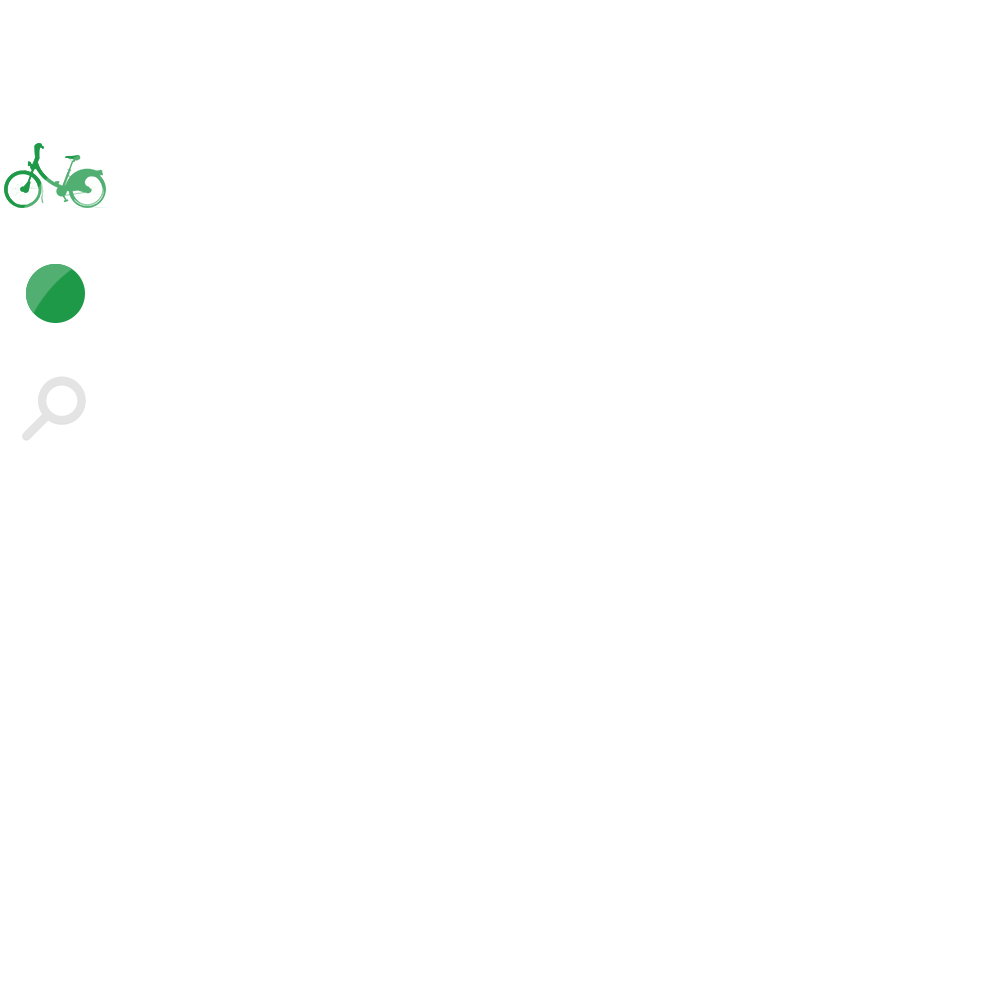
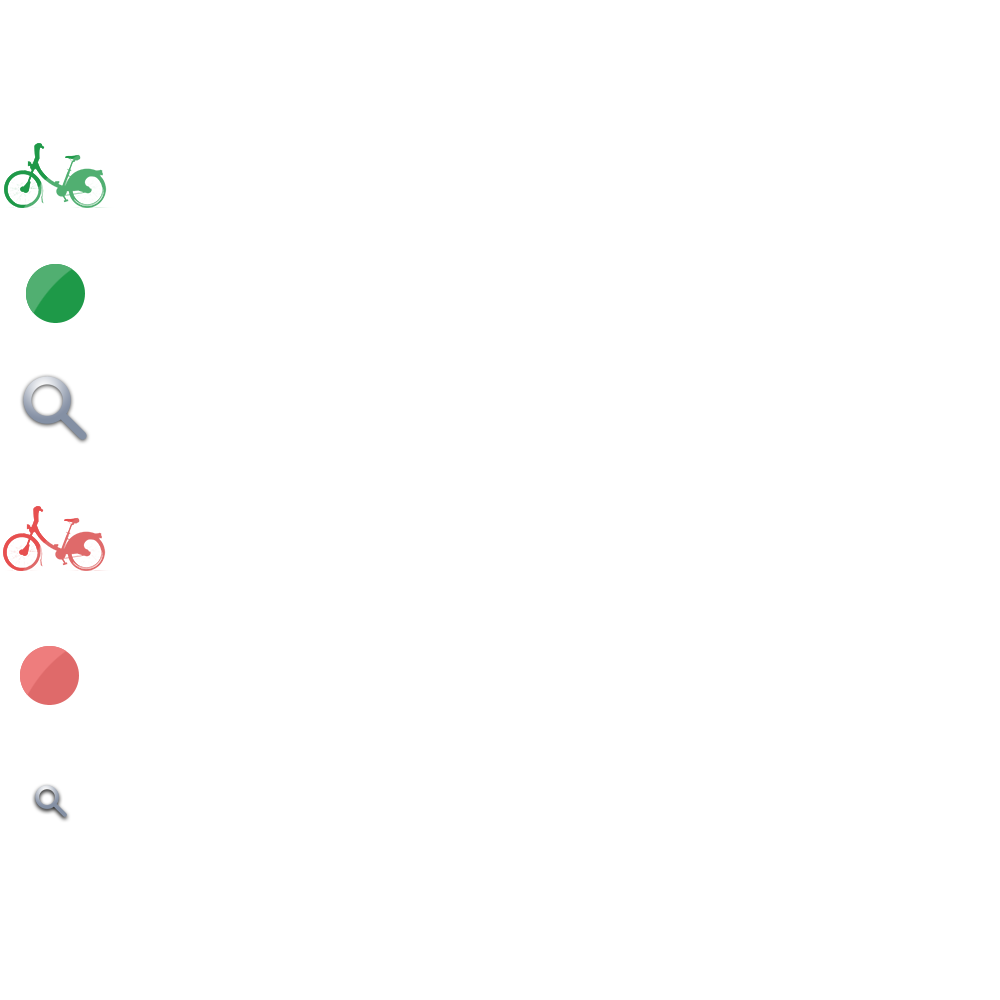
Design of the search section - perfecting the list view

diff --git a/dev/css/i.css b/dev/css/i.css
@@ -13,6 +13,7 @@ body {
 	-webkit-user-select:none;
     -webkit-text-size-adjust:none;
 	font-family:"Helvetica Neue";
+	-webkit-box-sizing: border-box;
 }
 
 .clr {
@@ -30,7 +31,9 @@ body {
 	height:50px;
 	line-height:50px;
 	background-color:#d51875;
-	background-image:-webkit-gradient(linear, 0 0, 0 100%, color-stop(0, #727270), color-stop(0.03, #444444), color-stop(1, #2B2B2B));
+	background-image:-webkit-gradient(linear, 0 0, 0 100%, color-stop(0, #4a515f), color-stop(1, #282c32));
+	border-top: 1px solid #5f697a;
+	border-bottom: 1px solid #6c7588;
 	padding:0;
 	color:#eee;
 	font-size:20px;
@@ -59,7 +62,7 @@ body {
 
 #wrapper {
 	position:absolute; z-index:1;
-	top:50px; bottom:0; left:0;
+	top:103px; bottom:0; left:0;
 	width:100%;
 	background-image:url(../assets/fiber_bg.png);
 	overflow:auto
@@ -312,7 +315,7 @@ body {
 /* Content when empty */
 
 #content {
-	width:100%;
+	width: 100%;
 	height : 100%;
 	display: -webkit-box;
 	-webkit-box-orient: horizontal;
@@ -322,6 +325,67 @@ body {
 	font-size: 42px;
 	color: rgba(255,255,255,0.19);
 	text-shadow: 0px -1px 0px #010101;
+}
+
+/* Search box */
+
+#search_box_bg {
+	height: 52px;
+	top: 51px;
+	z-index: 100;
+	position: relative;
+	width: 100%;
+	background-color: rgba(0, 0, 0, 0.35);
+	background-image:url(../assets/fiber_bg.png);
+}
+
+
+#search_box {
+	height: 40px;
+	z-index: 100;
+	position: relative;
+	width: 100%;
+	background-color: rgba(0, 0, 0, 0.35);
+	-webkit-box-shadow: inset 0 0 5px 5px rgba(0,0,0,0.3);
+	padding-top: 12px;
+}
+
+
+
+#search_box #search_shape {
+	padding: 0px 15px;
+	overflow: hidden;
+	-webkit-border-radius: 50px;
+	background-color: rgba(0, 0, 0, 0.35);
+	-webkit-box-shadow: inset 0 0 4px 4px rgba(0,0,0,0.5);
+	margin: 0 10px;
+	height: 29px;
+	background-image: url(../assets/ui_elements.png);
+	background-position: -7px -386px;
+	background-repeat: no-repeat;
+	background-size: 500px;
+}
+
+#search_box #search {
+	border: none;
+	background: none;
+	width: 100%;
+	font-size: 15px;
+	color: #7c818a;
+	text-shadow: 0 1px 1px #000;
+	padding-left: 20px;
+	outline: none;
+}
+
+ul#search_results {
+
+}
+
+ul#search_results li {
+	height: 50px;
+	border-top: 1px solid white;
+	background-image: -webkit-gradient(linear, 0 0, 0 100%, color-stop(0, #e9eae9), color-stop(1, #f2f4f1));
+	-webkit-box-shadow: 0 0 0 rgba(0, 0, 0, 0), 0 2px 7px rgba(0, 0, 0, 0.1) inset, 0px 0px 0 rgba(0, 0, 0, 0), 0px 0px 0 rgba(0, 0, 0, 0);
 }
 
 /* Retina display css */

diff --git a/dev/index.html b/dev/index.html
@@ -16,14 +16,24 @@
 <style type="text/css">@import url(css/i.css);</style>
 <script type="application/javascript" src="https://ajax.googleapis.com/ajax/libs/jquery/1.6.2/jquery.min.js"></script>
 <script type="application/javascript" src="js/iscroll.js"></script>
-<script type="application/javascript" src="js/carte.js"></script>
+<script type="application/javascript" src="js/freelib.js"></script>
 <script type="text/javascript">
-	freelib.init();
-	//freelib.reset();
-	freelib.getMap();
-	$(window).load(function(){
-		freelib.searchStation()
-	});
+var myScroll;
+
+function loaded() {
+	setTimeout(function () {
+		myScroll = new iScroll('wrapper');
+	}, 100);
+}
+
+window.addEventListener('load', loaded, false);
+freelib.init();
+//freelib.reset();
+freelib.getMap();
+
+$(window).load(function(){
+	freelib.searchStation()
+});
 </script>
 <title>FreeLib’</title>
 </head>
@@ -31,8 +41,14 @@
 <div id="header">
 	<div id="title"></div>
 </div>
+<div id="search_box_bg">
+	<div id="search_box">
+		<div id="search_shape">
+			<input type="text" id="search" />
+		</div>
+	</div>
+</div>
 <div id="wrapper">
-	<input type="text" id="search" />
 	<ul id="search_results"></ul>
 </div>
 </body>

diff --git a/dev/js/freelib.js b/dev/js/freelib.js
@@ -115,7 +115,7 @@ var freelib = (function() {
                     if(results.rows && results.rows.length) {
                         $("#search_results").text("");
                         for (i = 0; i < results.rows.length; i++) {
-                            $("#search_results").append("<li>" + results.rows.item(i)['fullAddress'] + "</li>");
+                            $("#search_results").append('<li>' + results.rows.item(i)['fullAddress'] + '</li>');
                         }
                     }
                     else{
